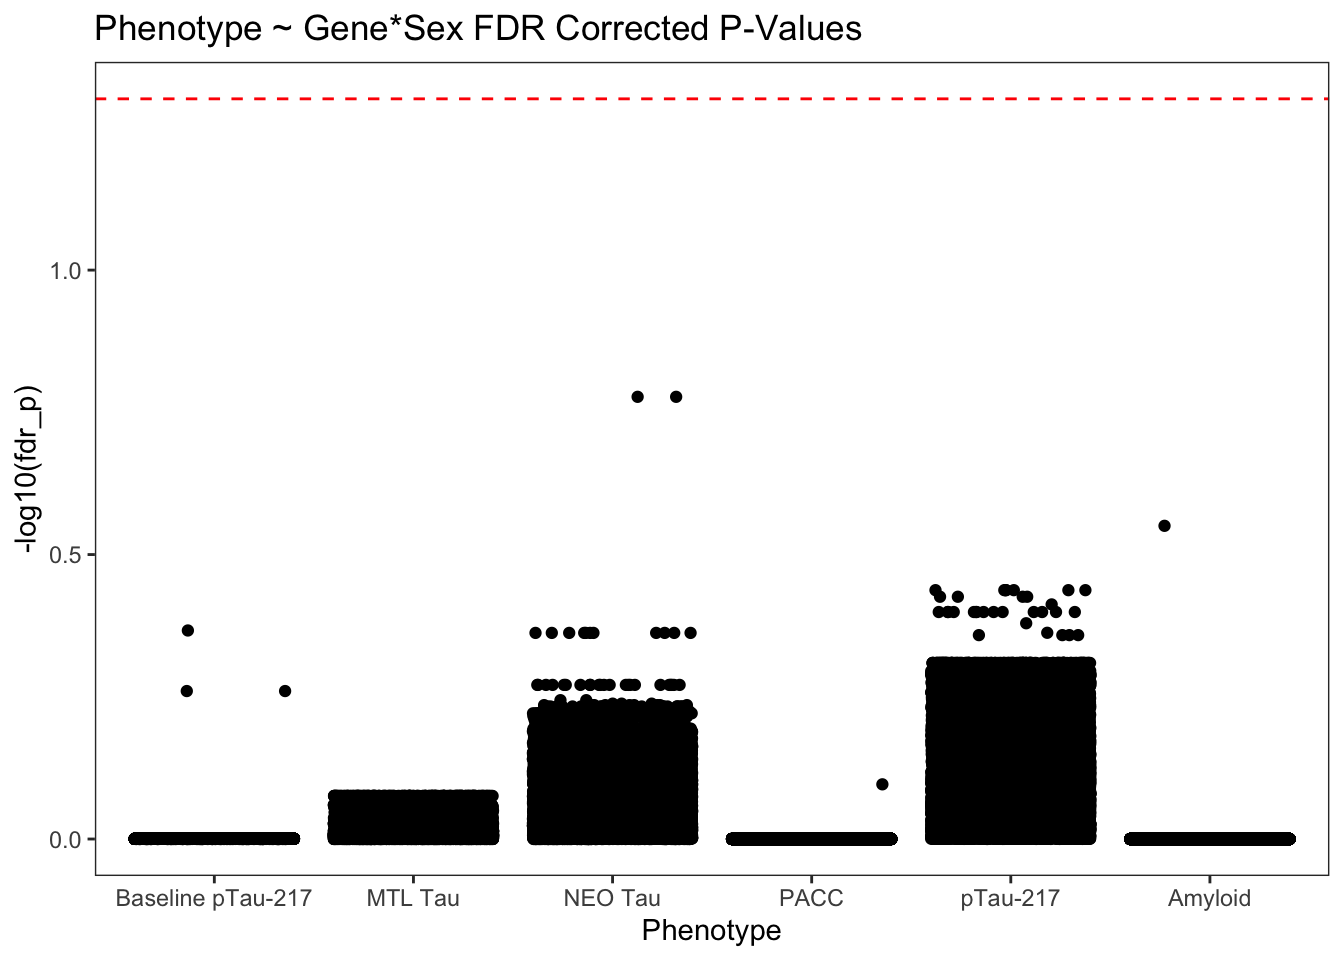
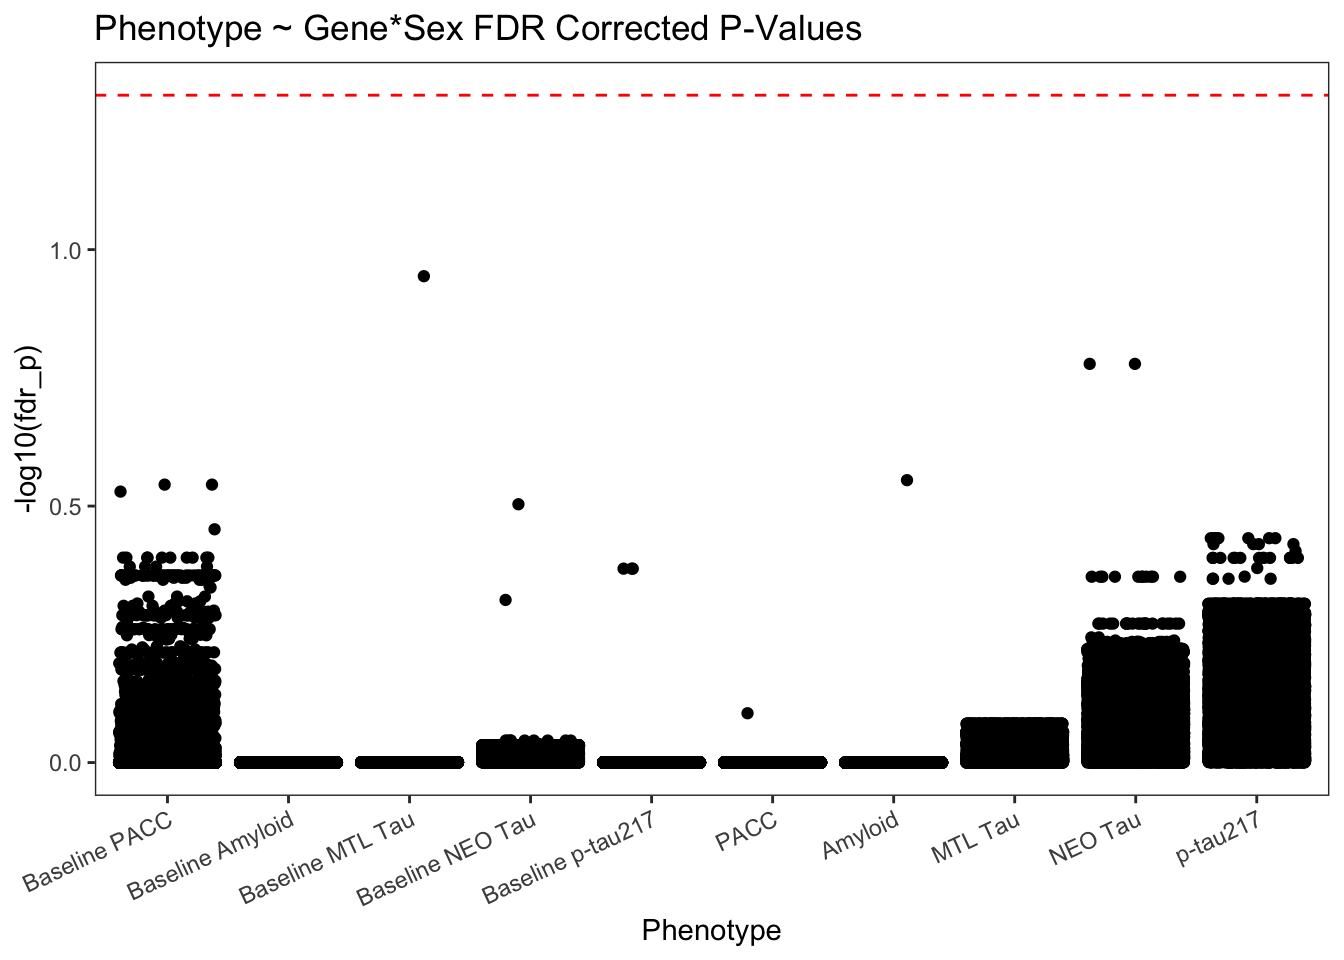
update manhattan plots

diff --git a/_book/manhattan_plots.html b/_book/manhattan_plots.html
@@ -1,3 +1,3 @@
 version https://git-lfs.github.com/spec/v1
-oid sha256:b3484062e3fc01c75d77394fc57b5a05cb134268572193f2b56efc8dd73fb542
-size 11010696
+oid sha256:4af9129613314275851912532e47e6e04e071e66962396c1f126df810e37fa8a
+size 2984617
